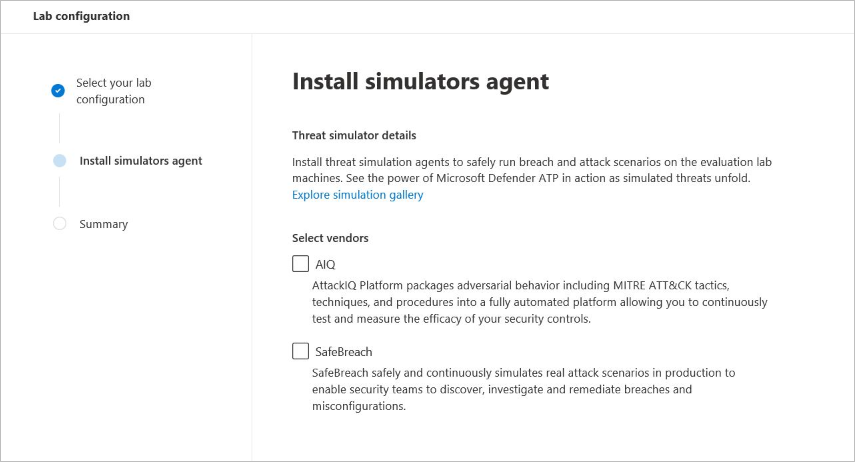
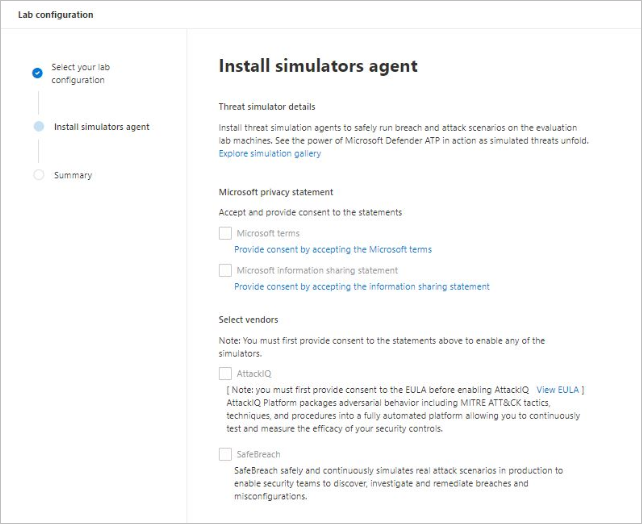
update images steps and refs

diff --git a/windows/security/threat-protection/microsoft-defender-atp/evaluation-lab.md b/windows/security/threat-protection/microsoft-defender-atp/evaluation-lab.md
@@ -31,7 +31,9 @@ You'll have full access to the powerful capabilities of the platform such as aut
 
 You can add Windows 10 or Windows Server 2019 machines. These test machines come pre-configured to have the latest and greatest OS versions with the right security components in place and Office 2019 Standard installed.
 
-You can also install threat simulators. Microsoft Defender ATP has partnered with industry leading threat simulation platforms to help you test out the Microsoft Defender ATP capabilities.  Install your preferred simulator, run scenarios within the evaluation lab, and instantly see how the platform performs. You'll also have convenient access to wide array of simulations which you can access and run from the simulations catalog.
+You can also install threat simulators. Microsoft Defender ATP has partnered with industry leading threat simulation platforms to help you test out the Microsoft Defender ATP capabilities without having to leave the portal.
+
+ Install your preferred simulator, run scenarios within the evaluation lab, and instantly see how the platform performs - all conveniently available at no extra cost to you. You'll also have convenient access to wide array of simulations which you can access and run from the simulations catalog.
     
 
 ## Before you begin
@@ -71,7 +73,7 @@ You can access the lab from the menu. In the navigation menu, select **Evaluatio
     >[!IMPORTANT]
     >You'll first need to accept and provide consent to the terms and information sharing statements. 
 
-4. Select the threat simulation agent you'd like to use and enter your details. You can also choose to install threat simulators at a later time. If you choose to install threat simulation agents during the lab setup, you'll enjoy the benefit of having them on the machines you add.  
+4. Select the threat simulation agent you'd like to use and enter your details. You can also choose to install threat simulators at a later time. If you choose to install threat simulation agents during the lab setup, you'll enjoy the benefit of having them conveniently installed on the machines you add.  
     
     ![Image of summary page](images/lab-setup-summary.png)
 
@@ -190,7 +192,11 @@ Running threat simulations using third-party platforms is a good way to evaluate
 
     ![Image of threat simulator selection](images/select-simulator.png)
 
-3. Choose a simulation or look through the simulation gallery to browse through the available simulations.
+3. Choose a simulation or look through the simulation gallery to browse through the available simulations. 
+
+    You can get to the simulation gallery from:
+    - The main evaluation dashboard in the **Simulations overview** tile or
+    - By navigating from the navigation pane **Evaluation and tutorials** > **Simulation & tutorials**, then select **Simulations catalog**.
 
 4. Select the devices where you'd like to run the simulation on.
 
@@ -219,6 +225,10 @@ You can conveniently run any available simulation right from the catalog.
 
 
 ![Image of simulations catalog](images/simulations-catalog.png)
+
+Each simulation comes with an in-depth description of the attack scenario and references such as the MITRE attack techniques used and sample Advanced hunting queries you run.
+
+![Image of simulation description details](images/simulation-details.png)
 
 
 ## Evaluation report
